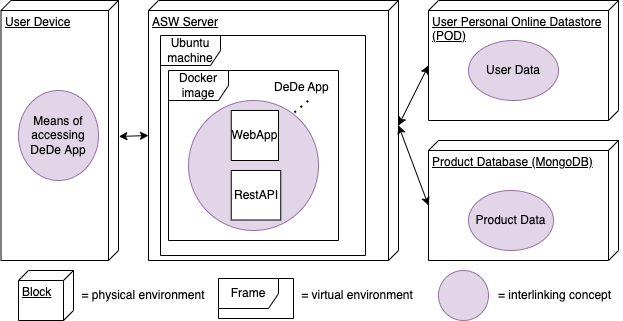
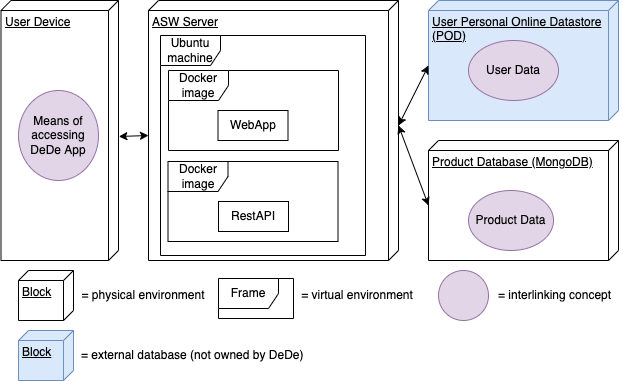
Final tweaks
-Updated documentation
-'DeDe' logo is now a link to the home page
-NavBar buttons no longer disappear on mobile devices
-Rephrased some english

diff --git a/webapp/src/components/NavBar.tsx b/webapp/src/components/NavBar.tsx
@@ -12,7 +12,8 @@ import {
     Toolbar,
     Typography,
     Box,
-    Button
+    Button,
+    Grid
 } from "@mui/material";
 import logo from "../images/logoName.png";
 import "./styles.css"
@@ -125,27 +126,35 @@ function NavBarButtons(props: NavBarItemProps) {
 const NavBar = (props: NavBarProps) => {
     const {isLoggedIn, handleOpen} = props
     const {cartItems} = useContext(CartContext);
+    const history = useHistory()
 
 
     return (
-    <AppBar position="static" style={{background: '#2E3B55'}}>
-        <Container maxWidth='xl'>
-            <Toolbar disableGutters>
-                <Typography
-                    variant="h6"
-                    noWrap
-                    component="div"
-                    sx={{ mr: 2, display: { xs: 'none', md: 'flex' } }}
-                >
-                    <img src={logo} style={{height:"50px", width:"200px"}} alt="dededeals"/>
-                </Typography>
+    <div>
+    <Grid container>
+        <AppBar position="static" style={{background: '#2E3B55'}}>
+            <Container maxWidth='xl'>
+                <Toolbar disableGutters>
+                    <Typography
+                        variant="h6"
+                        noWrap
+                        component="div"
+                        sx={{ mr: 2, display: { xs: 'none', md: 'flex' } }}
+                    >
+                    </Typography>
 
-                <NavBarButtons  isLoggedIn={isLoggedIn}/>
-                <ShoppingCart handleOpen={handleOpen} cartItems={cartItems}/>
-                <LogInSignUpComponent isLoggedIn={isLoggedIn}/>
-            </Toolbar>
-        </Container>
-    </AppBar>
+                    <img src={logo} style={{height:"50px", width:"200px"}} onClick={() => history.push("/")} alt="dededeals"/>
+
+                    <NavBarButtons  isLoggedIn={isLoggedIn}/>
+                    <Grid container justifyContent="flex-end">
+                        <ShoppingCart handleOpen={handleOpen} cartItems={cartItems}/>
+                        <LogInSignUpComponent isLoggedIn={isLoggedIn}/>
+                    </Grid>
+                </Toolbar>
+            </Container>
+        </AppBar>
+    </Grid>
+    </div>
     )
 }
 

diff --git a/webapp/src/components/userAuthentication/SelectProviderComponent.tsx b/webapp/src/components/userAuthentication/SelectProviderComponent.tsx
@@ -46,9 +46,9 @@ export const SelectProviderComponent = () => {
         >
             <Box alignSelf={"center"} component="div" sx={{marginTop: '5%', maxWidth: '50%', whiteSpace: 'normal' }}>
                 <Typography variant="h6" alignContent="center" width="100%">
-                    In order to make purchases in this application a Solid Pod is needed. This Pod
-                    will store your data and will belong entirely to you. DeDe, will only make use
-                    of your Pod's to process your order. Your private data will not be saved.
+                    In order to make purchases in this application a Solid POD is needed. This Personal
+                    Online Datastore will store your data and will belong entirely to you. DeDe will only make use
+                    of your POD to process your order. Your private data will not be saved.
                 </Typography>
             </Box>
 

diff --git a/webapp/src/components/footer/Footer.tsx b/webapp/src/components/footer/Footer.tsx
@@ -13,7 +13,7 @@ export const Footer = (): JSX.Element => {
                 }}
                 style={{marginTop:"50px", minHeight:"10%", width:"100%", backgroundColor:"#212529", color:"white", position:"relative", marginBottom:"0px"}}
             >
-                <Typography variant="h6" align="center">If you have any suggestion or question contact us: dededeals@hotmail.com</Typography>
+                <Typography variant="h6" align="center">If you have any suggestions or questions please contact us: dededeals@hotmail.com</Typography>
             </Box>
         </>
     );

diff --git a/webapp/src/components/userAuthentication/LogInSignUpComponent.tsx b/webapp/src/components/userAuthentication/LogInSignUpComponent.tsx
@@ -14,7 +14,7 @@ export const LogInSignUpComponent = (props: Props) => {
 
     return (
         <Box>
-            <Box sx={{ flexGrow: 0, display: { xs: 'none', md: 'flex' } }}>
+            <Box sx={{ flexGrow: 0, display: { xs: 'flex', md: 'flex' } }}>
 				{!isLoggedIn ?
 				<>
 					<LoginButtonProvider/>
